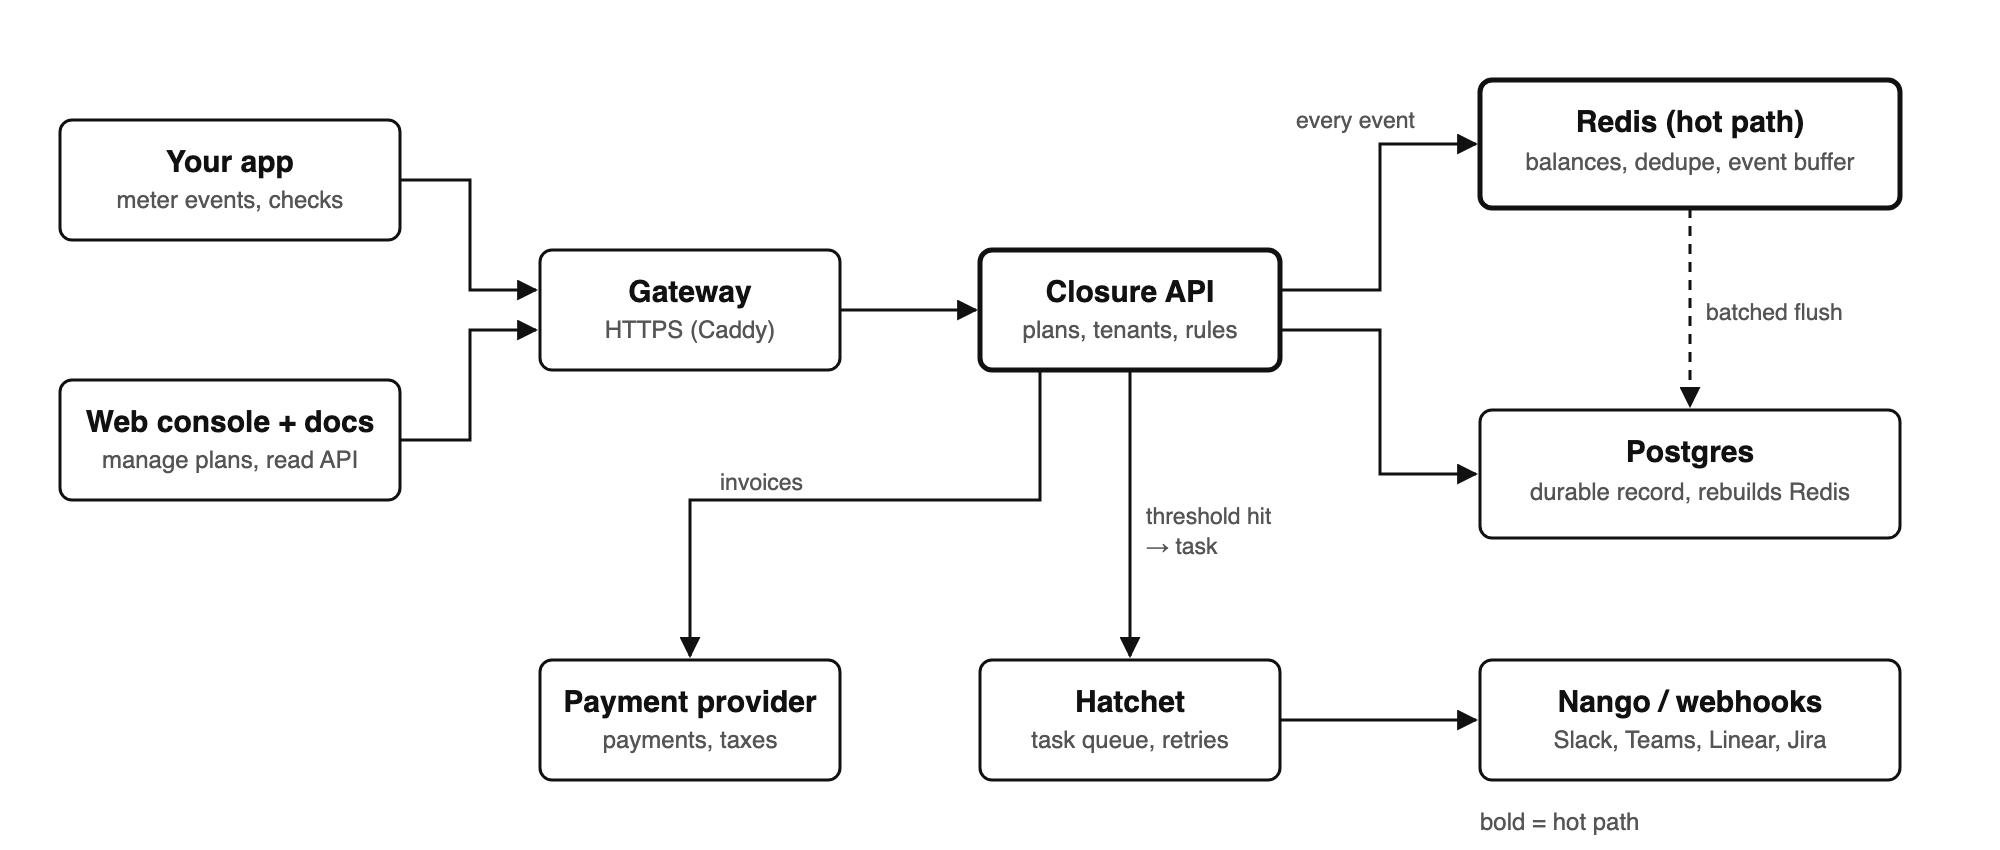
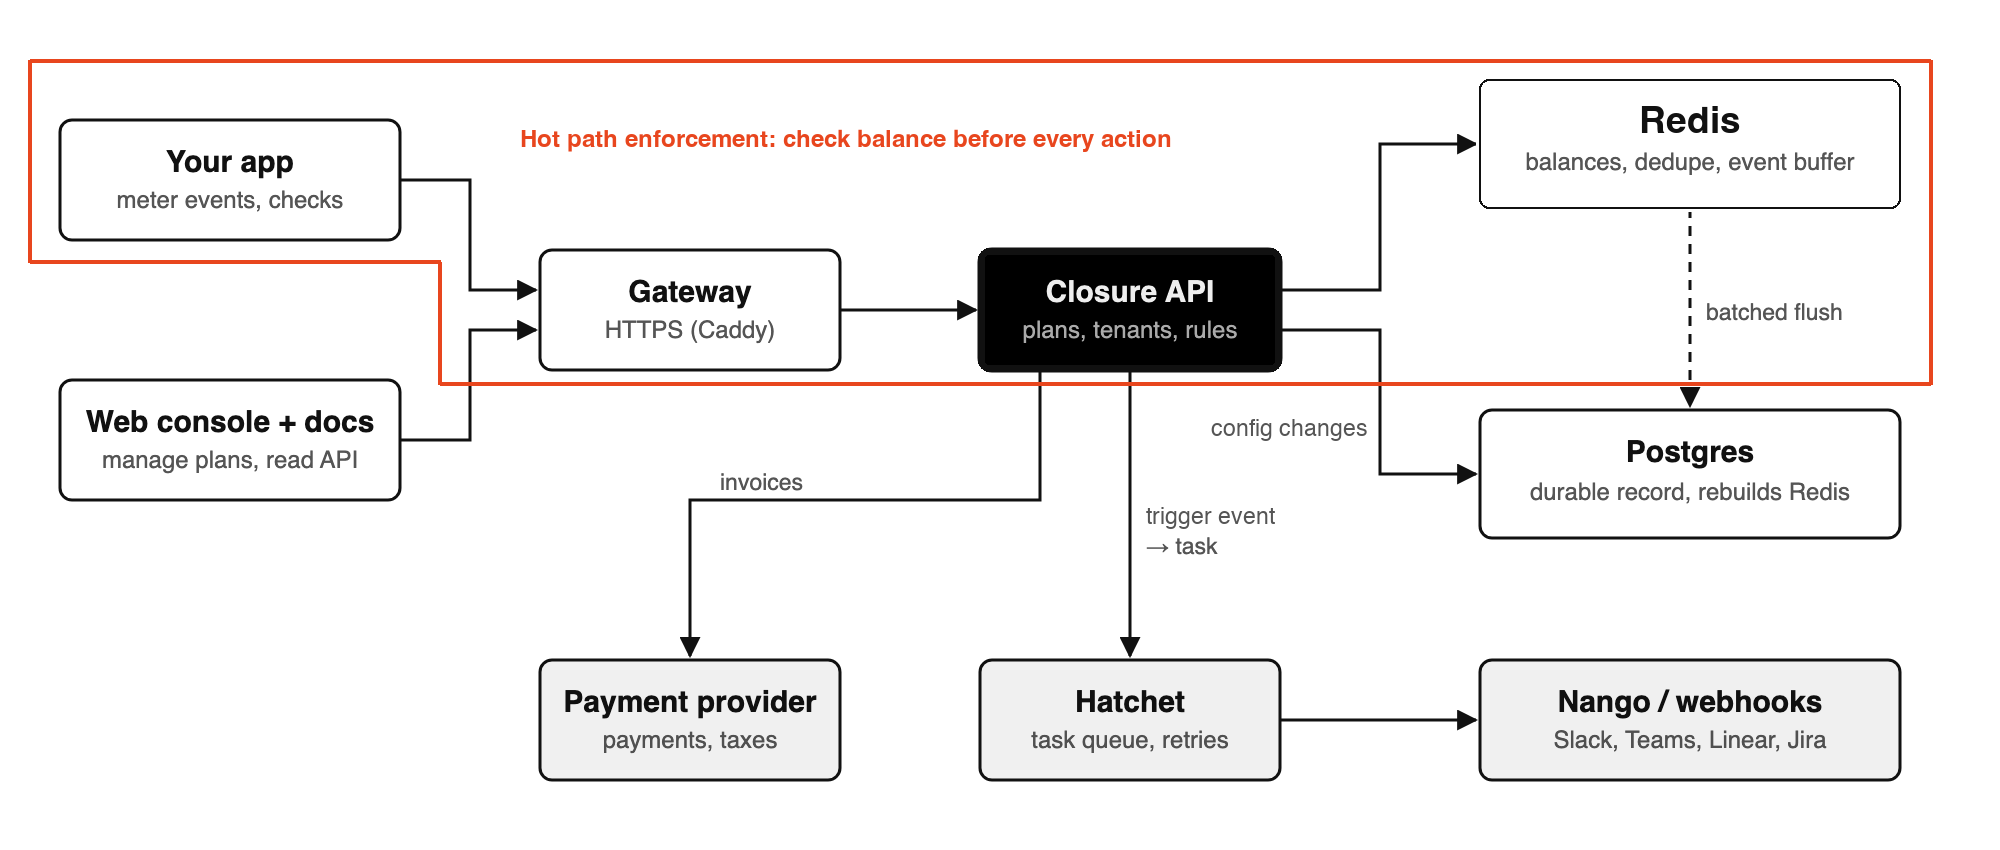
docs(README): tighten use cases and mark hot path in architecture diagram

diff --git a/README.md b/README.md
@@ -2,7 +2,7 @@
 
 # Closure: Entitlements and Metering Infrastructure for Agentic Products
 
-### Implement any pricing that best captures your product's value without needing to think through the math.
+### Capture your product's value without needing to think through the math.
 
 [![PRs Welcome](https://img.shields.io/badge/PRs-welcome-43AF11.svg)](http://makeapullrequest.com)
 [![Commit activity](https://img.shields.io/github/commit-activity/m/jxutaposition/closure?color=black)](https://github.com/jxutaposition/closure/commits/main)
@@ -30,16 +30,15 @@ billing system you want. Some inspiration:
 - OpenAI's [hybrid access systems](https://openai.com/index/beyond-rate-limits/)
 - Buy now, pay later
 - Marginal PNL modeling
-- Granting discounts and referral bonuses
+- Discounts and referral bonuses
 - Lots of experimentation
 
 ### Teams
 
 - **Finance** can send invoices automatically and reconcile revenue with usage costs.
-- **Growth** can run promotions, coupons, and referrals, and experiment with plans and pricing.
-- **Sales** can create custom deals in-house, without buying or paying for a CPQ vendor.
-- **Customer success** can get notified about key customers in Slack, Teams, Linear, and Jira.
-- **Engineering** can ship at the speed of Claude and charge per token in the hot path (see [How Closure works](#how-closure-works)).
+- **Growth** can run promotions, coupons, and referrals, and analyze lifecycle data without engineers.
+- **Sales and Customer Success** can create custom deals in-house and get notified about key customers in product activity in Slack, Teams, Linear, and Jira.
+- **Engineering** can ship at the speed of Claude and implement blocks before charges happen.
 
 ## How Closure works
 
